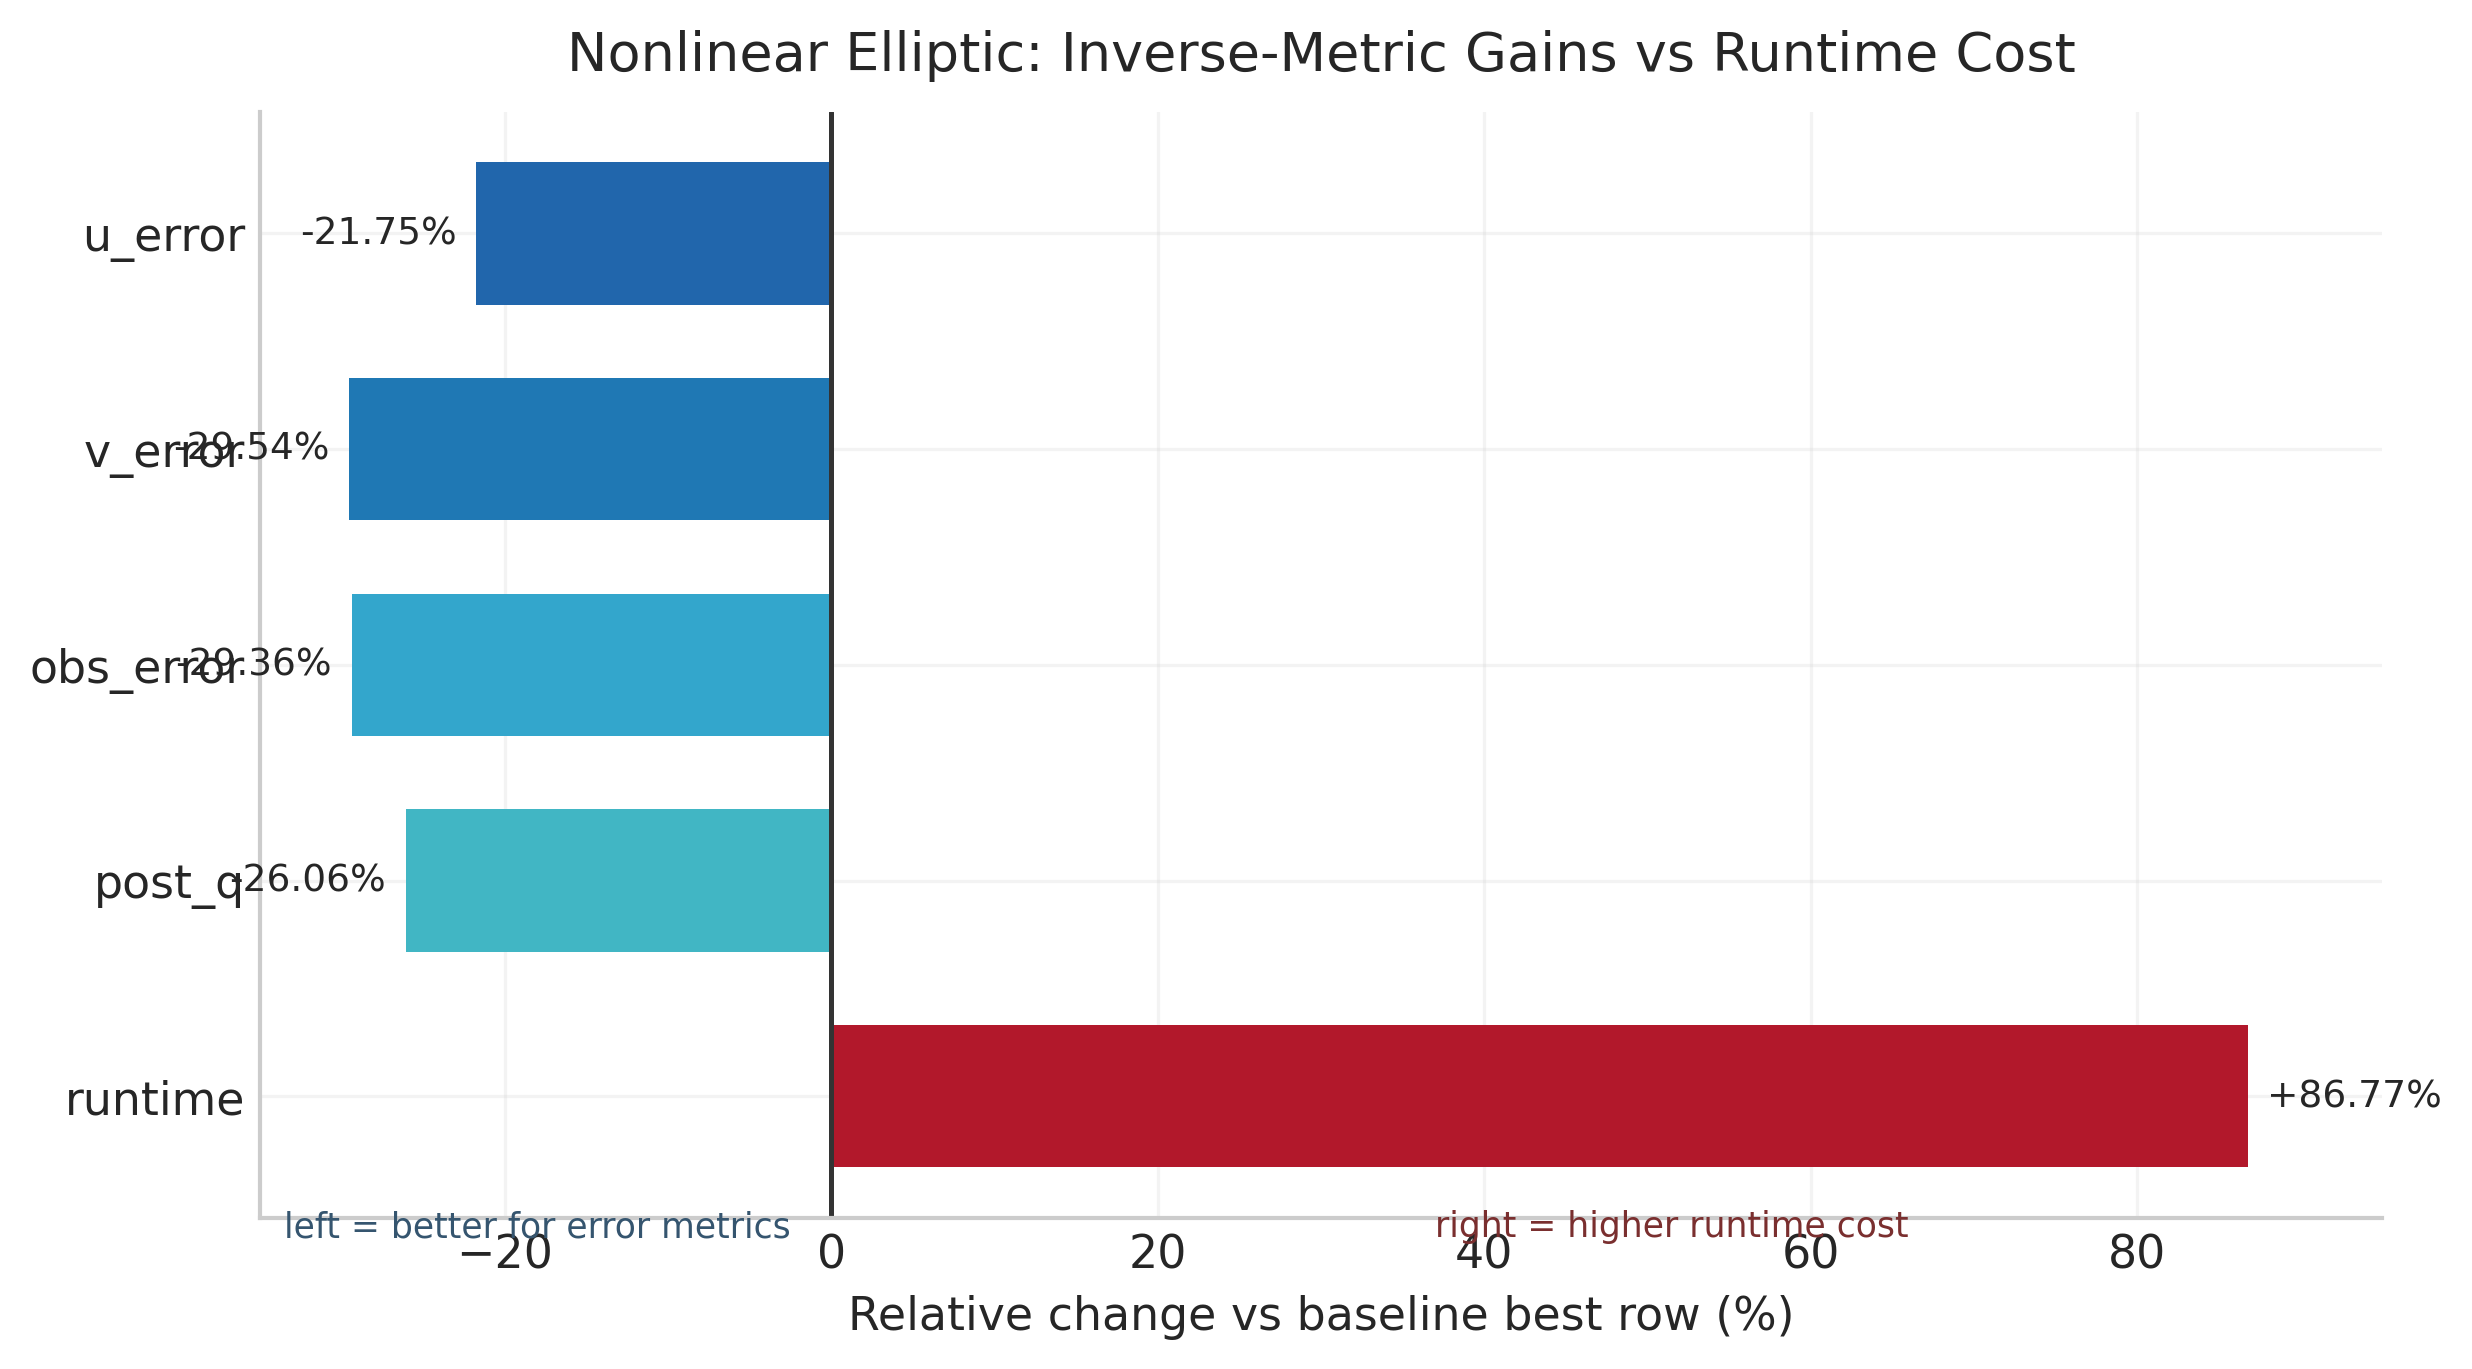
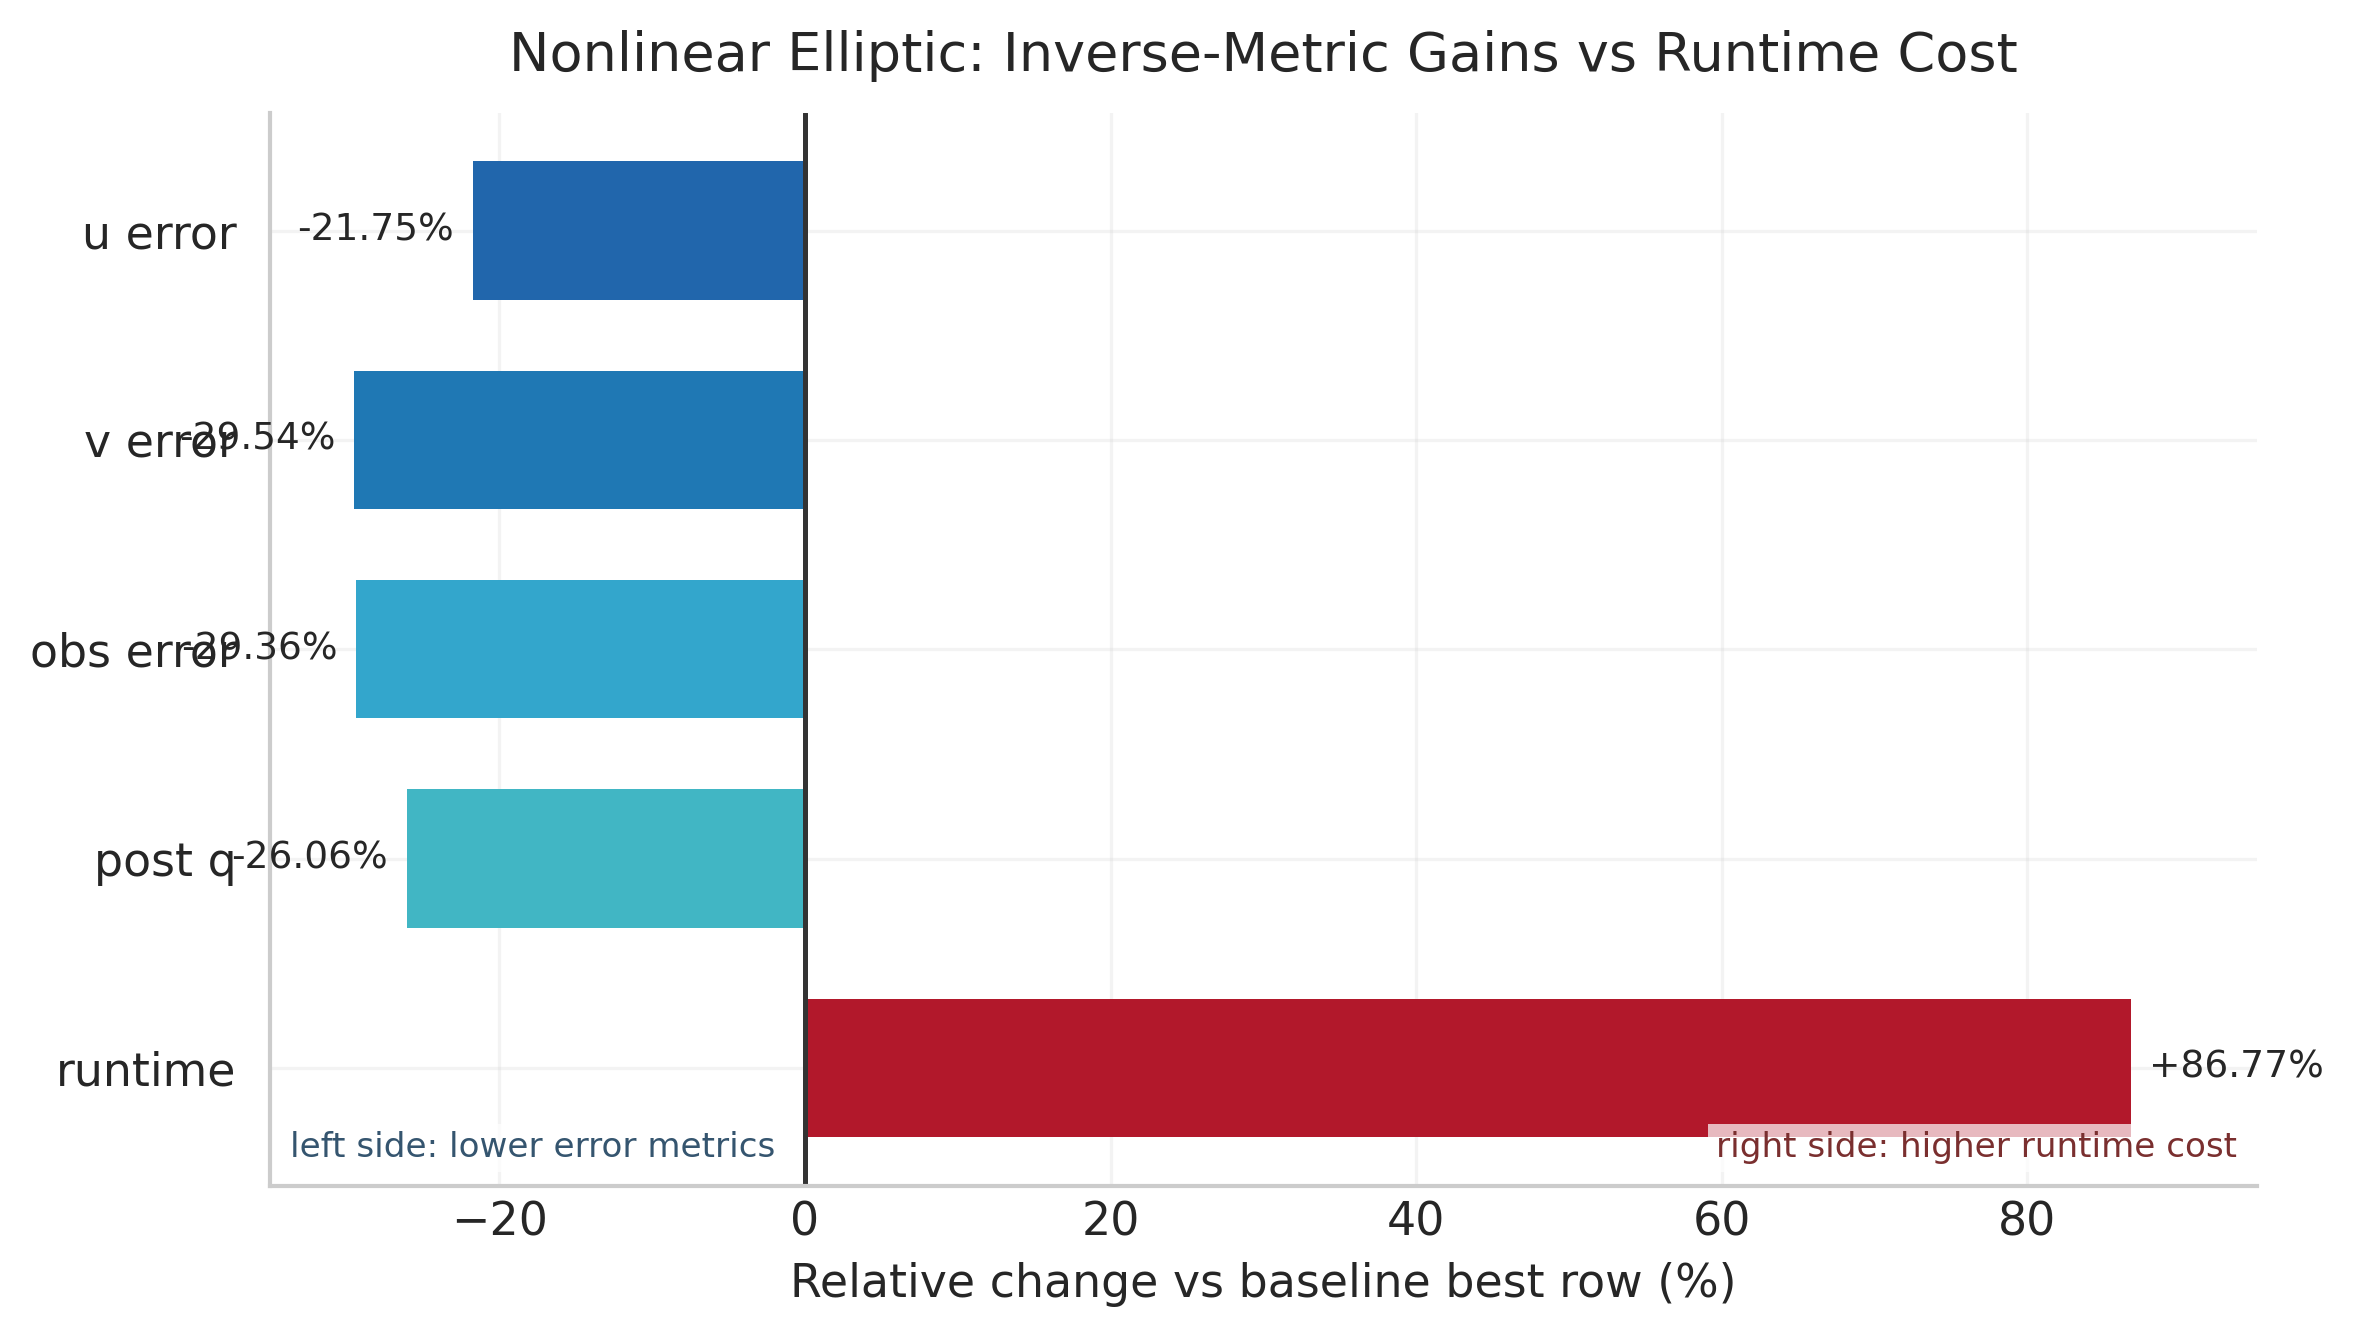
Fix key-result line breaks and Figure 2 y-axis label overlap

diff --git a/reports/build_report_figures.py b/reports/build_report_figures.py
@@ -266,7 +266,7 @@ def build_gain_cost_scorecard() -> None:
         ("posterior_quality", "post_q"),
         ("runtime", "runtime"),
     ]
-    labels = [v for _, v in metric_keys]
+    labels = ["u error", "v error", "obs error", "post q", "runtime"]
     pct_changes = []
     for key, _ in metric_keys:
         b = baseline[key]
@@ -274,12 +274,13 @@ def build_gain_cost_scorecard() -> None:
         pct_changes.append((t - b) / max(abs(b), 1e-12) * 100.0)
 
     colors = ["#2166ac", "#1f78b4", "#33a6cc", "#41b6c4", "#b2182b"]
-    fig, ax = plt.subplots(figsize=(8.4, 4.7))
+    fig, ax = plt.subplots(figsize=(8.6, 4.9))
     y = list(range(len(labels)))
     bars = ax.barh(y, pct_changes, color=colors, edgecolor="none", height=0.66)
     ax.axvline(0.0, color="#333333", linewidth=1.2)
     ax.set_yticks(y)
     ax.set_yticklabels(labels)
+    ax.tick_params(axis="y", pad=8)
     ax.invert_yaxis()
     ax.set_xlabel("Relative change vs baseline best row (%)")
     ax.set_title("Nonlinear Elliptic: Inverse-Metric Gains vs Runtime Cost", pad=10)
@@ -294,9 +295,29 @@ def build_gain_cost_scorecard() -> None:
         else:
             ax.text(x - 1.2, y_mid, text, va="center", ha="right", fontsize=9)
 
-    ax.text(-33.5, len(labels) - 0.35, "left = better for error metrics", fontsize=8.3, color="#35556f")
-    ax.text(37.0, len(labels) - 0.35, "right = higher runtime cost", fontsize=8.3, color="#7a2f2f")
-    fig.tight_layout()
+    ax.text(
+        0.01,
+        0.02,
+        "left side: lower error metrics",
+        transform=ax.transAxes,
+        fontsize=8.2,
+        color="#35556f",
+        ha="left",
+        va="bottom",
+        bbox={"facecolor": "white", "alpha": 0.7, "edgecolor": "none", "pad": 1.8},
+    )
+    ax.text(
+        0.99,
+        0.02,
+        "right side: higher runtime cost",
+        transform=ax.transAxes,
+        fontsize=8.2,
+        color="#7a2f2f",
+        ha="right",
+        va="bottom",
+        bbox={"facecolor": "white", "alpha": 0.7, "edgecolor": "none", "pad": 1.8},
+    )
+    fig.subplots_adjust(left=0.21, right=0.98, bottom=0.15, top=0.88)
     fig.savefig(FIGDIR / "nonlinear_gain_cost_scorecard.png", bbox_inches="tight")
     plt.close(fig)
 

diff --git a/reports/final_project_report.tex b/reports/final_project_report.tex
@@ -169,8 +169,10 @@ Relative change & \(-21.75\%\) & \(-29.54\%\) & \(-29.36\%\) & \(-26.06\%\) & \(
 }
 \end{table*}
 
-\textbf{Key result.} The strongest inverse-reconstruction configuration is \texttt{every\_step/first\_order} under strong guidance, with absolute improvements
-\(u\_error: 1.9232\rightarrow 1.5050\), \(v\_error: 1.2944\rightarrow 0.9120\), and \(obs\_error: 1.1504\rightarrow 0.8126\).
+\textbf{Key result.} The strongest inverse-reconstruction configuration is \texttt{every\_step/first\_order} under strong guidance, with absolute improvements:\\
+\(\mathbf{u\_error}: 1.9232\rightarrow 1.5050\),\\
+\(\mathbf{v\_error}: 1.2944\rightarrow 0.9120\),\\
+\(\mathbf{obs\_error}: 1.1504\rightarrow 0.8126\).
 
 \begin{figure}[h]
 \centering

diff --git a/reports/final_projection_study_presentation.tex b/reports/final_projection_study_presentation.tex
@@ -169,8 +169,10 @@ Relative change & \(-21.75\%\) & \(-29.54\%\) & \(-29.36\%\) & \(-26.06\%\) & \(
 }
 \end{table*}
 
-\textbf{Key result.} The strongest inverse-reconstruction configuration is \texttt{every\_step/first\_order} under strong guidance, with absolute improvements
-\(u\_error: 1.9232\rightarrow 1.5050\), \(v\_error: 1.2944\rightarrow 0.9120\), and \(obs\_error: 1.1504\rightarrow 0.8126\).
+\textbf{Key result.} The strongest inverse-reconstruction configuration is \texttt{every\_step/first\_order} under strong guidance, with absolute improvements:\\
+\(\mathbf{u\_error}: 1.9232\rightarrow 1.5050\),\\
+\(\mathbf{v\_error}: 1.2944\rightarrow 0.9120\),\\
+\(\mathbf{obs\_error}: 1.1504\rightarrow 0.8126\).
 
 \begin{figure}[h]
 \centering